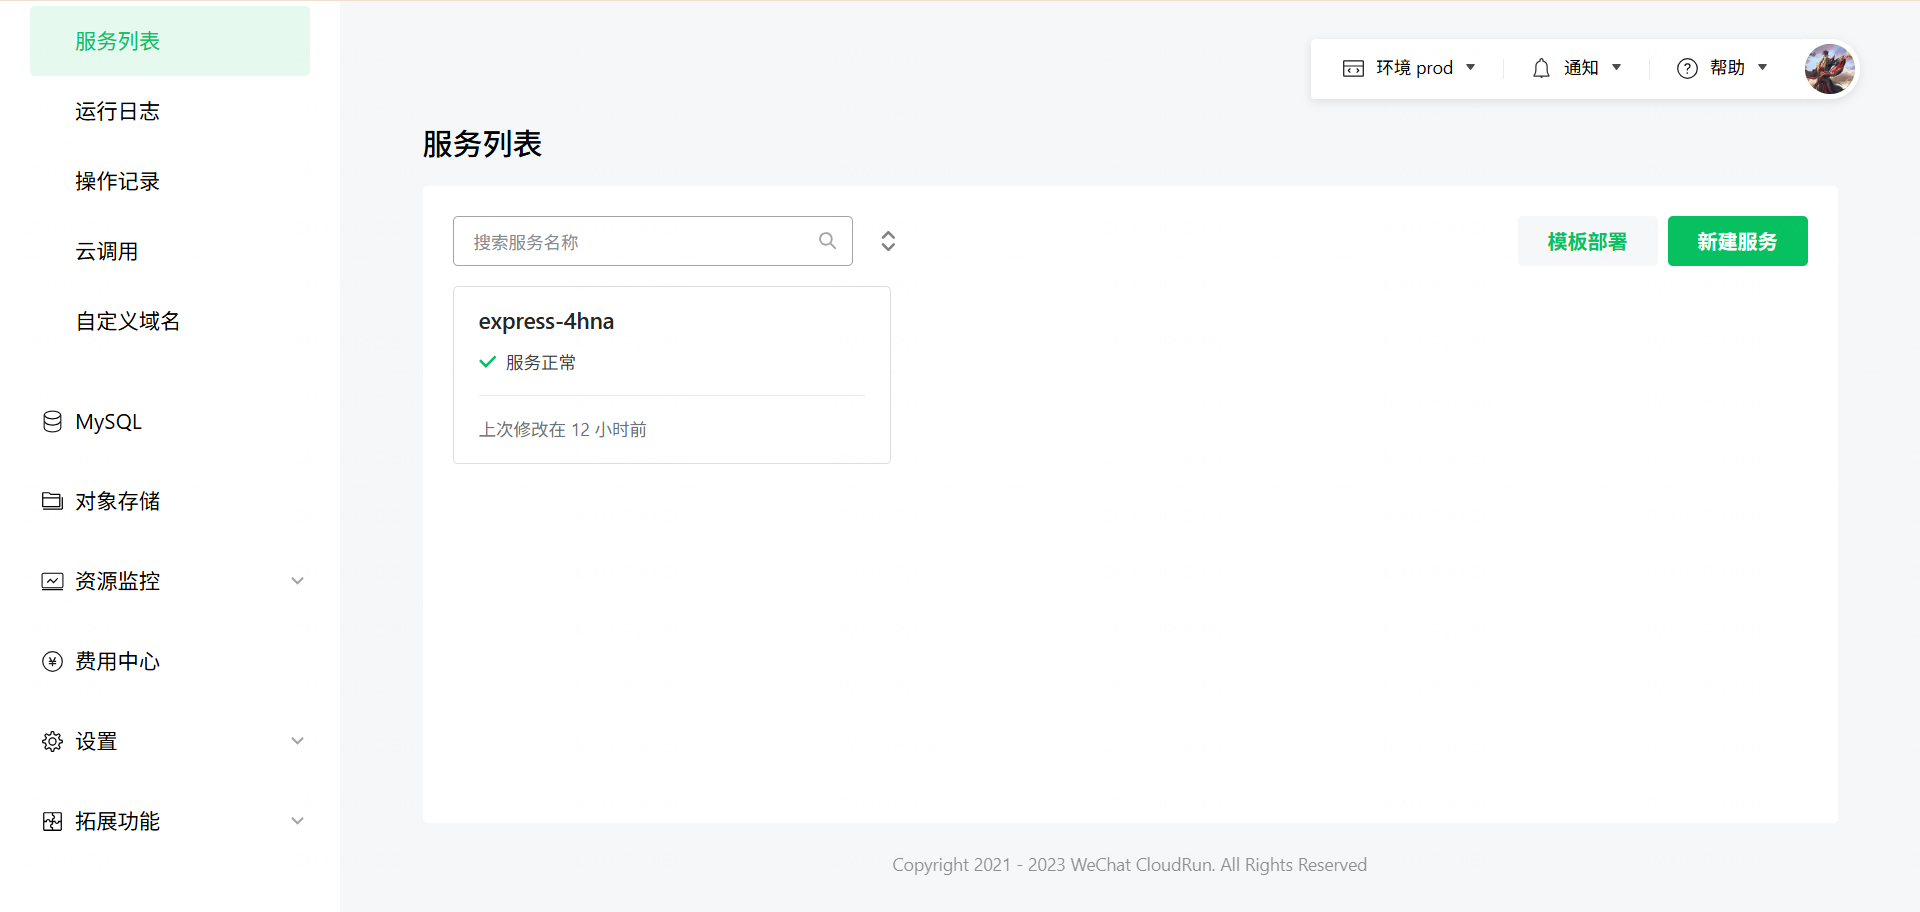
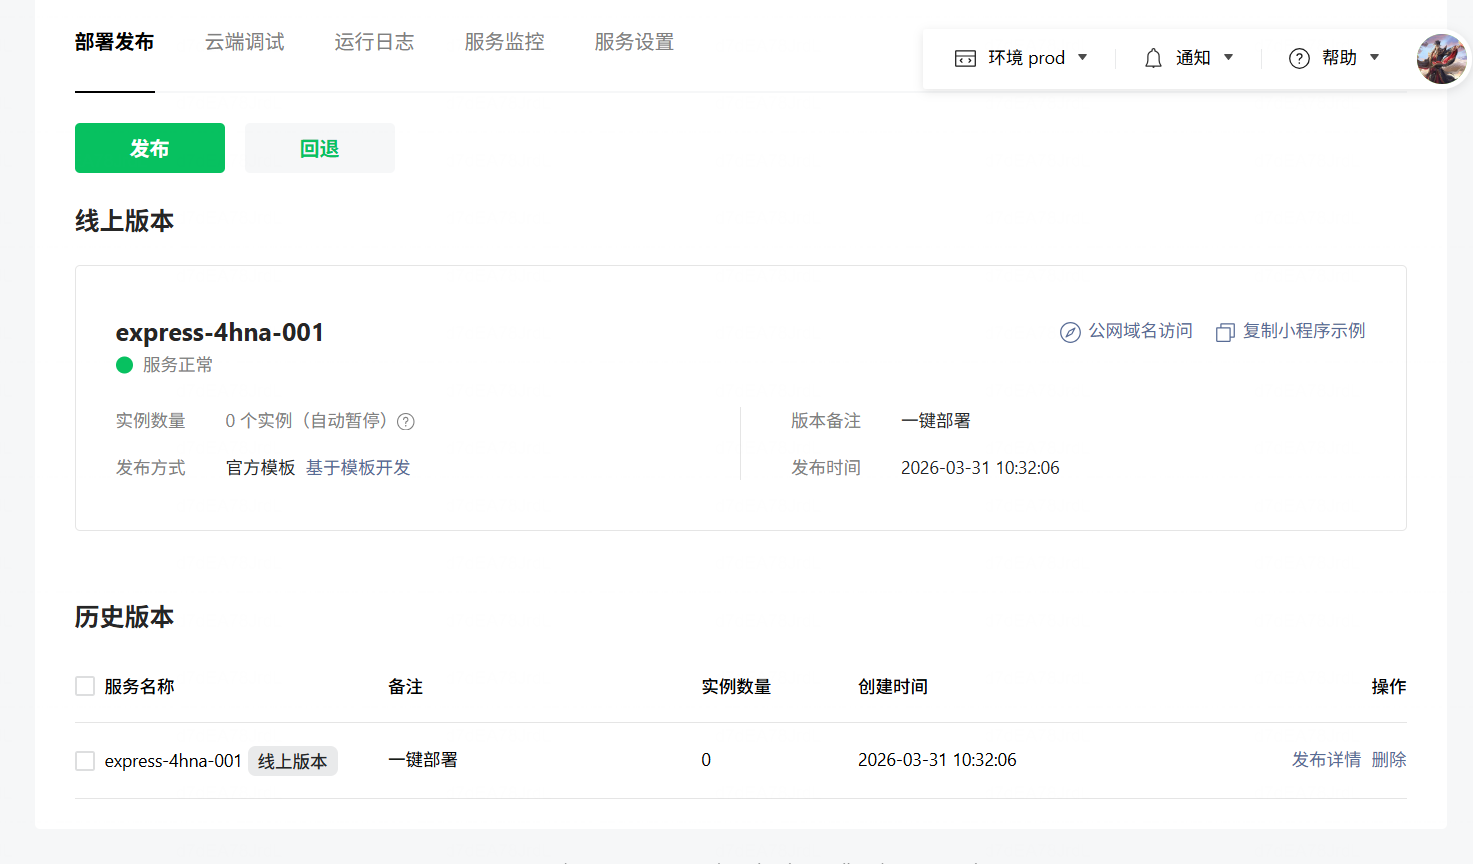
feat: 添加微信云托管部署配置和指南

diff --git a/docs/CLOUDRUN_DEPLOY.md b/docs/CLOUDRUN_DEPLOY.md
@@ -1,0 +1,79 @@
+# 微信云托管部署指南
+
+## 一、删除旧服务
+
+1. 在服务列表中，点击 `express-4hna`
+2. 进入「服务设置」→「删除服务」
+3. 确认删除
+
+---
+
+## 二、新建服务（代码部署方式）
+
+### 步骤 1：准备代码
+
+将 server 目录代码上传到 GitHub 或 Gitee：
+
+```bash
+cd server
+git init
+git add .
+git commit -m "宿舍管理后端"
+git remote add origin https://github.com/你的用户名/dormitory-server.git
+git push -u origin main
+```
+
+### 步骤 2：创建服务
+
+1. 点击「新建服务」
+2. 选择「代码部署」
+3. 选择代码来源（GitHub/Gitee）
+4. 授权并选择仓库
+
+### 步骤 3：配置服务
+
+| 配置项 | 值 |
+|--------|-----|
+| 服务名称 | dormitory-api |
+| 监听端口 | 3000 |
+
+### 步骤 4：添加环境变量
+
+在「高级配置」→「环境变量」中添加：
+
+```
+COZE_SUPABASE_URL=你的Supabase地址
+COZE_SUPABASE_ANON_KEY=你的Supabase密钥
+INVITE_CODES=960710
+```
+
+### 步骤 5：发布
+
+点击「发布」，等待部署完成
+
+---
+
+## 三、获取服务地址
+
+部署成功后：
+1. 在服务详情页找到「公网域名访问」
+2. 复制域名，格式类似：`https://dormitory-api-xxx.run.tcloudbase.com`
+3. 这个地址就是小程序的后端地址
+
+---
+
+## 四、更新小程序配置
+
+提供给我这个地址，我帮你更新配置并重新构建。
+
+---
+
+## ⚡ 简化方式：使用镜像部署
+
+如果有 Docker 镜像：
+
+1. 点击「新建服务」→「镜像部署」
+2. 选择「Docker Hub」或「私有镜像仓库」
+3. 输入镜像地址
+4. 配置环境变量
+5. 发布
